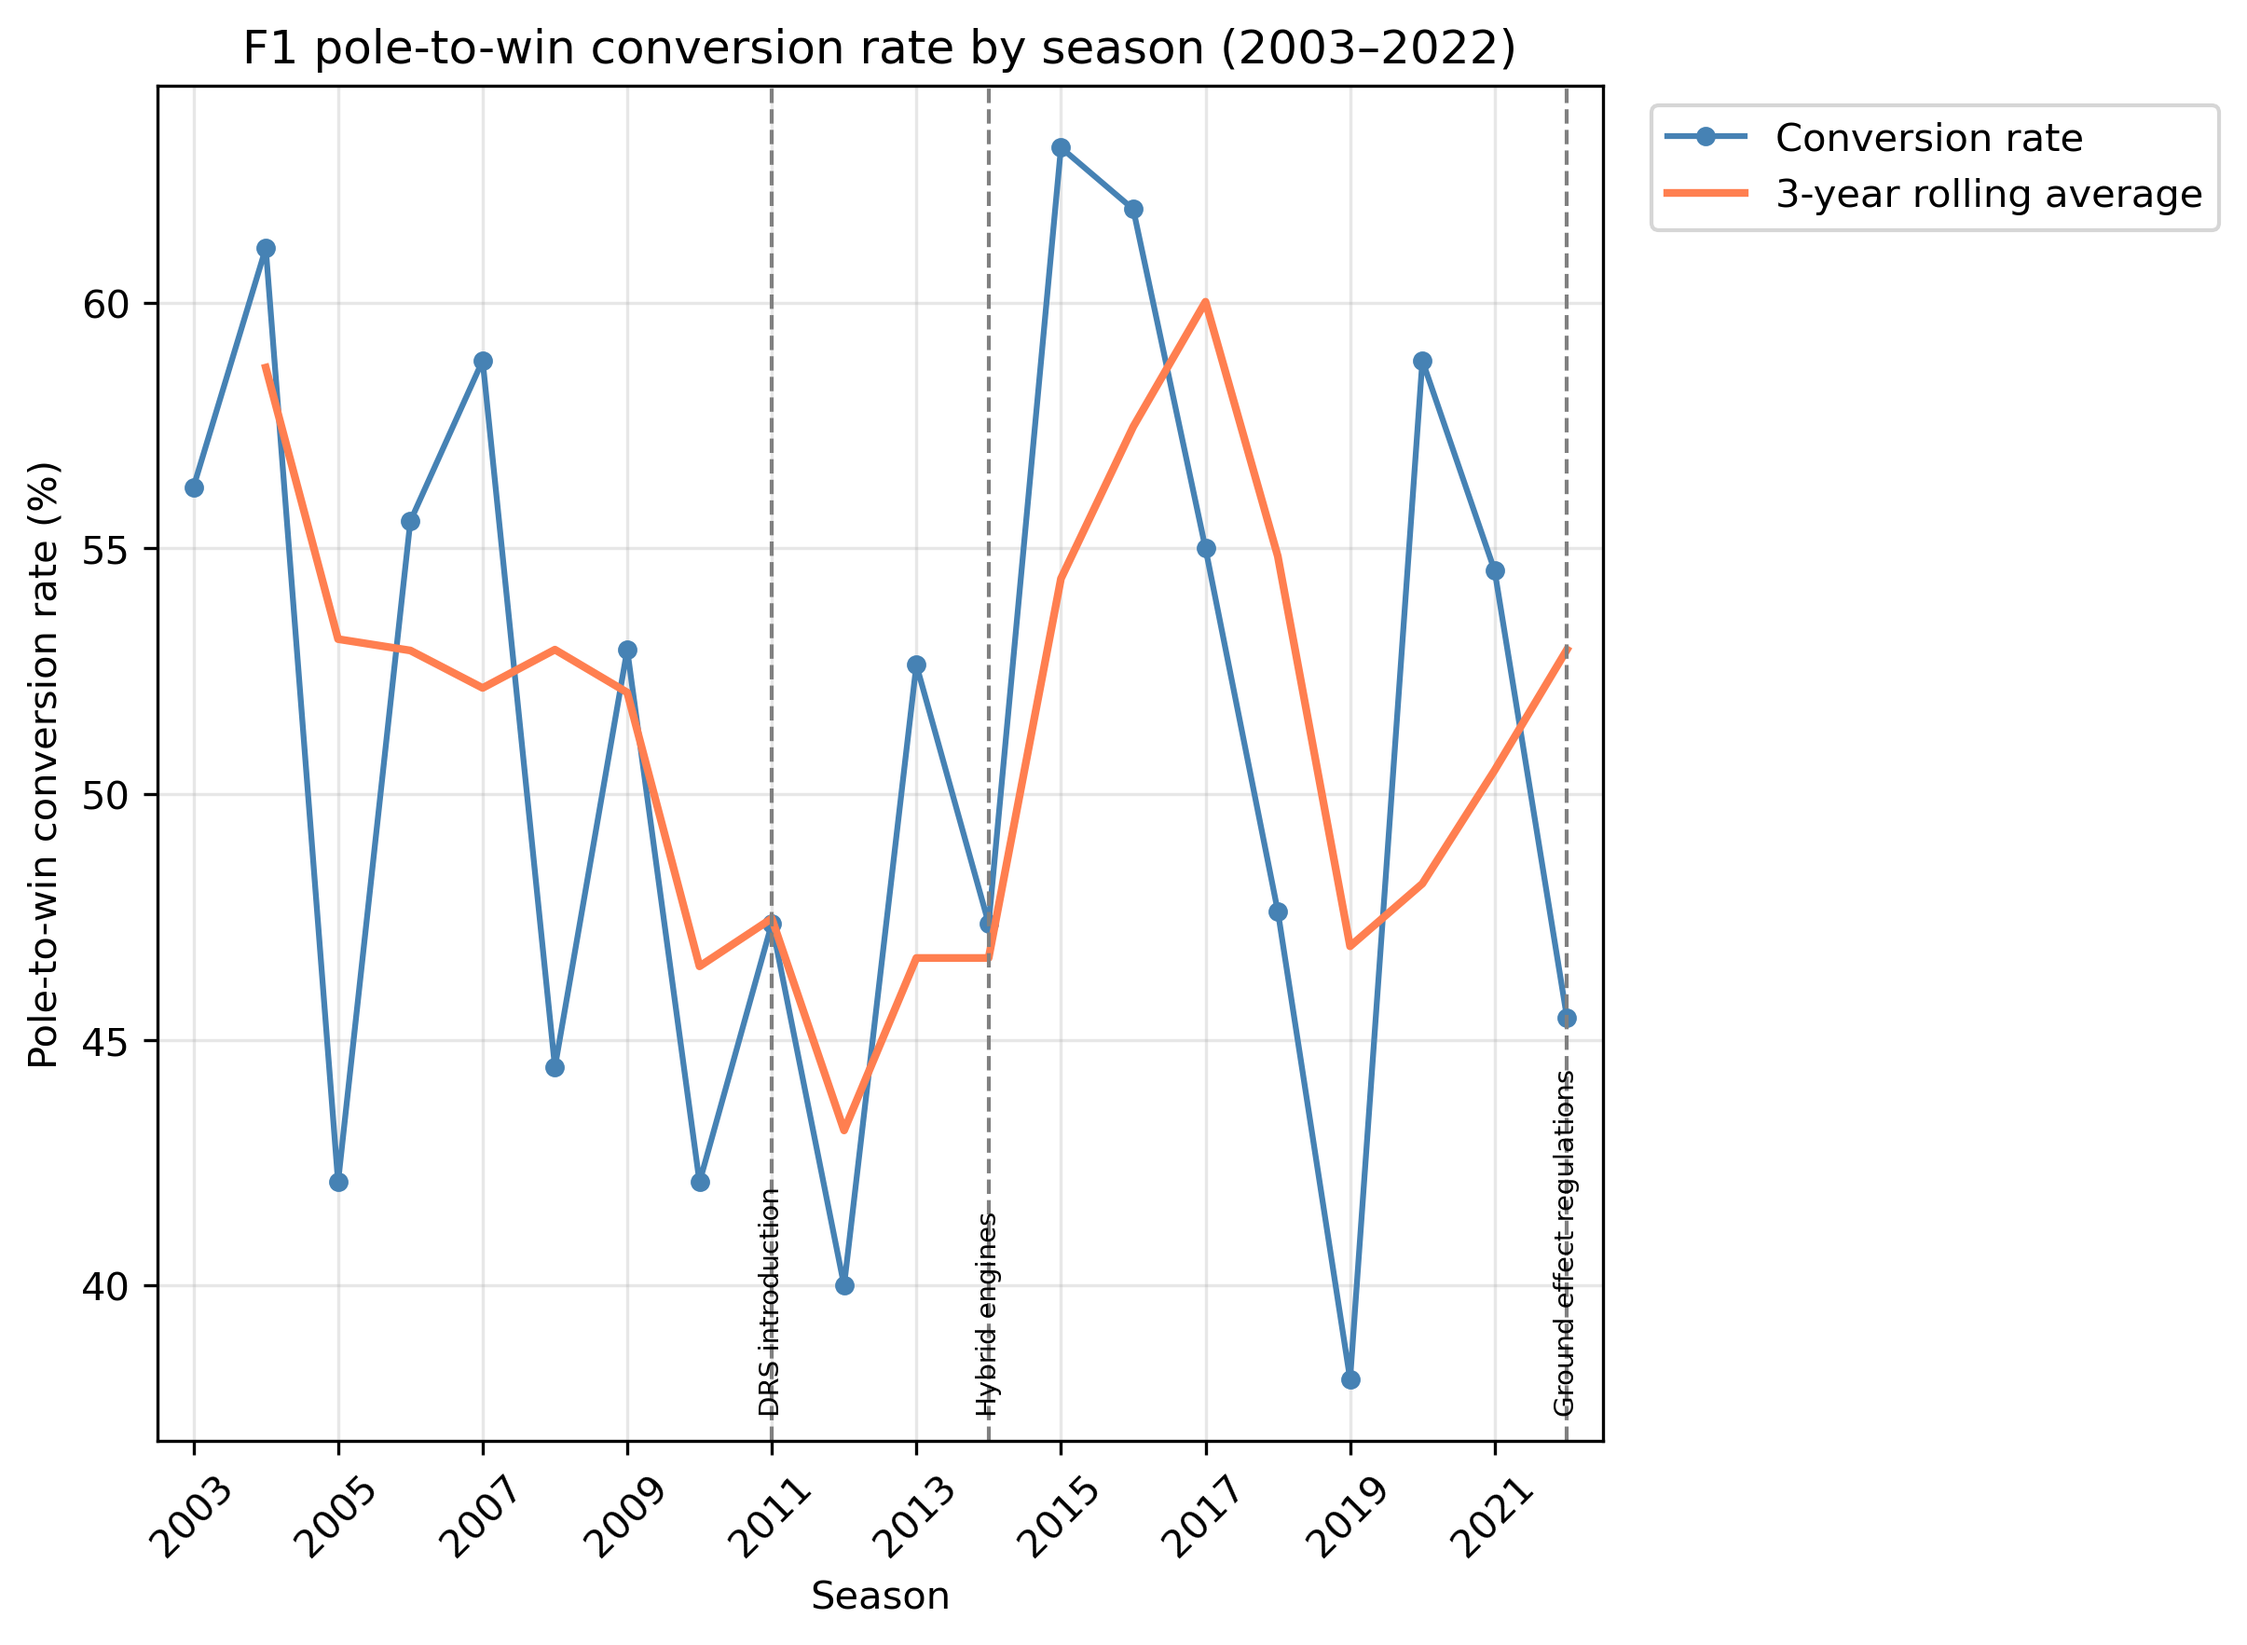
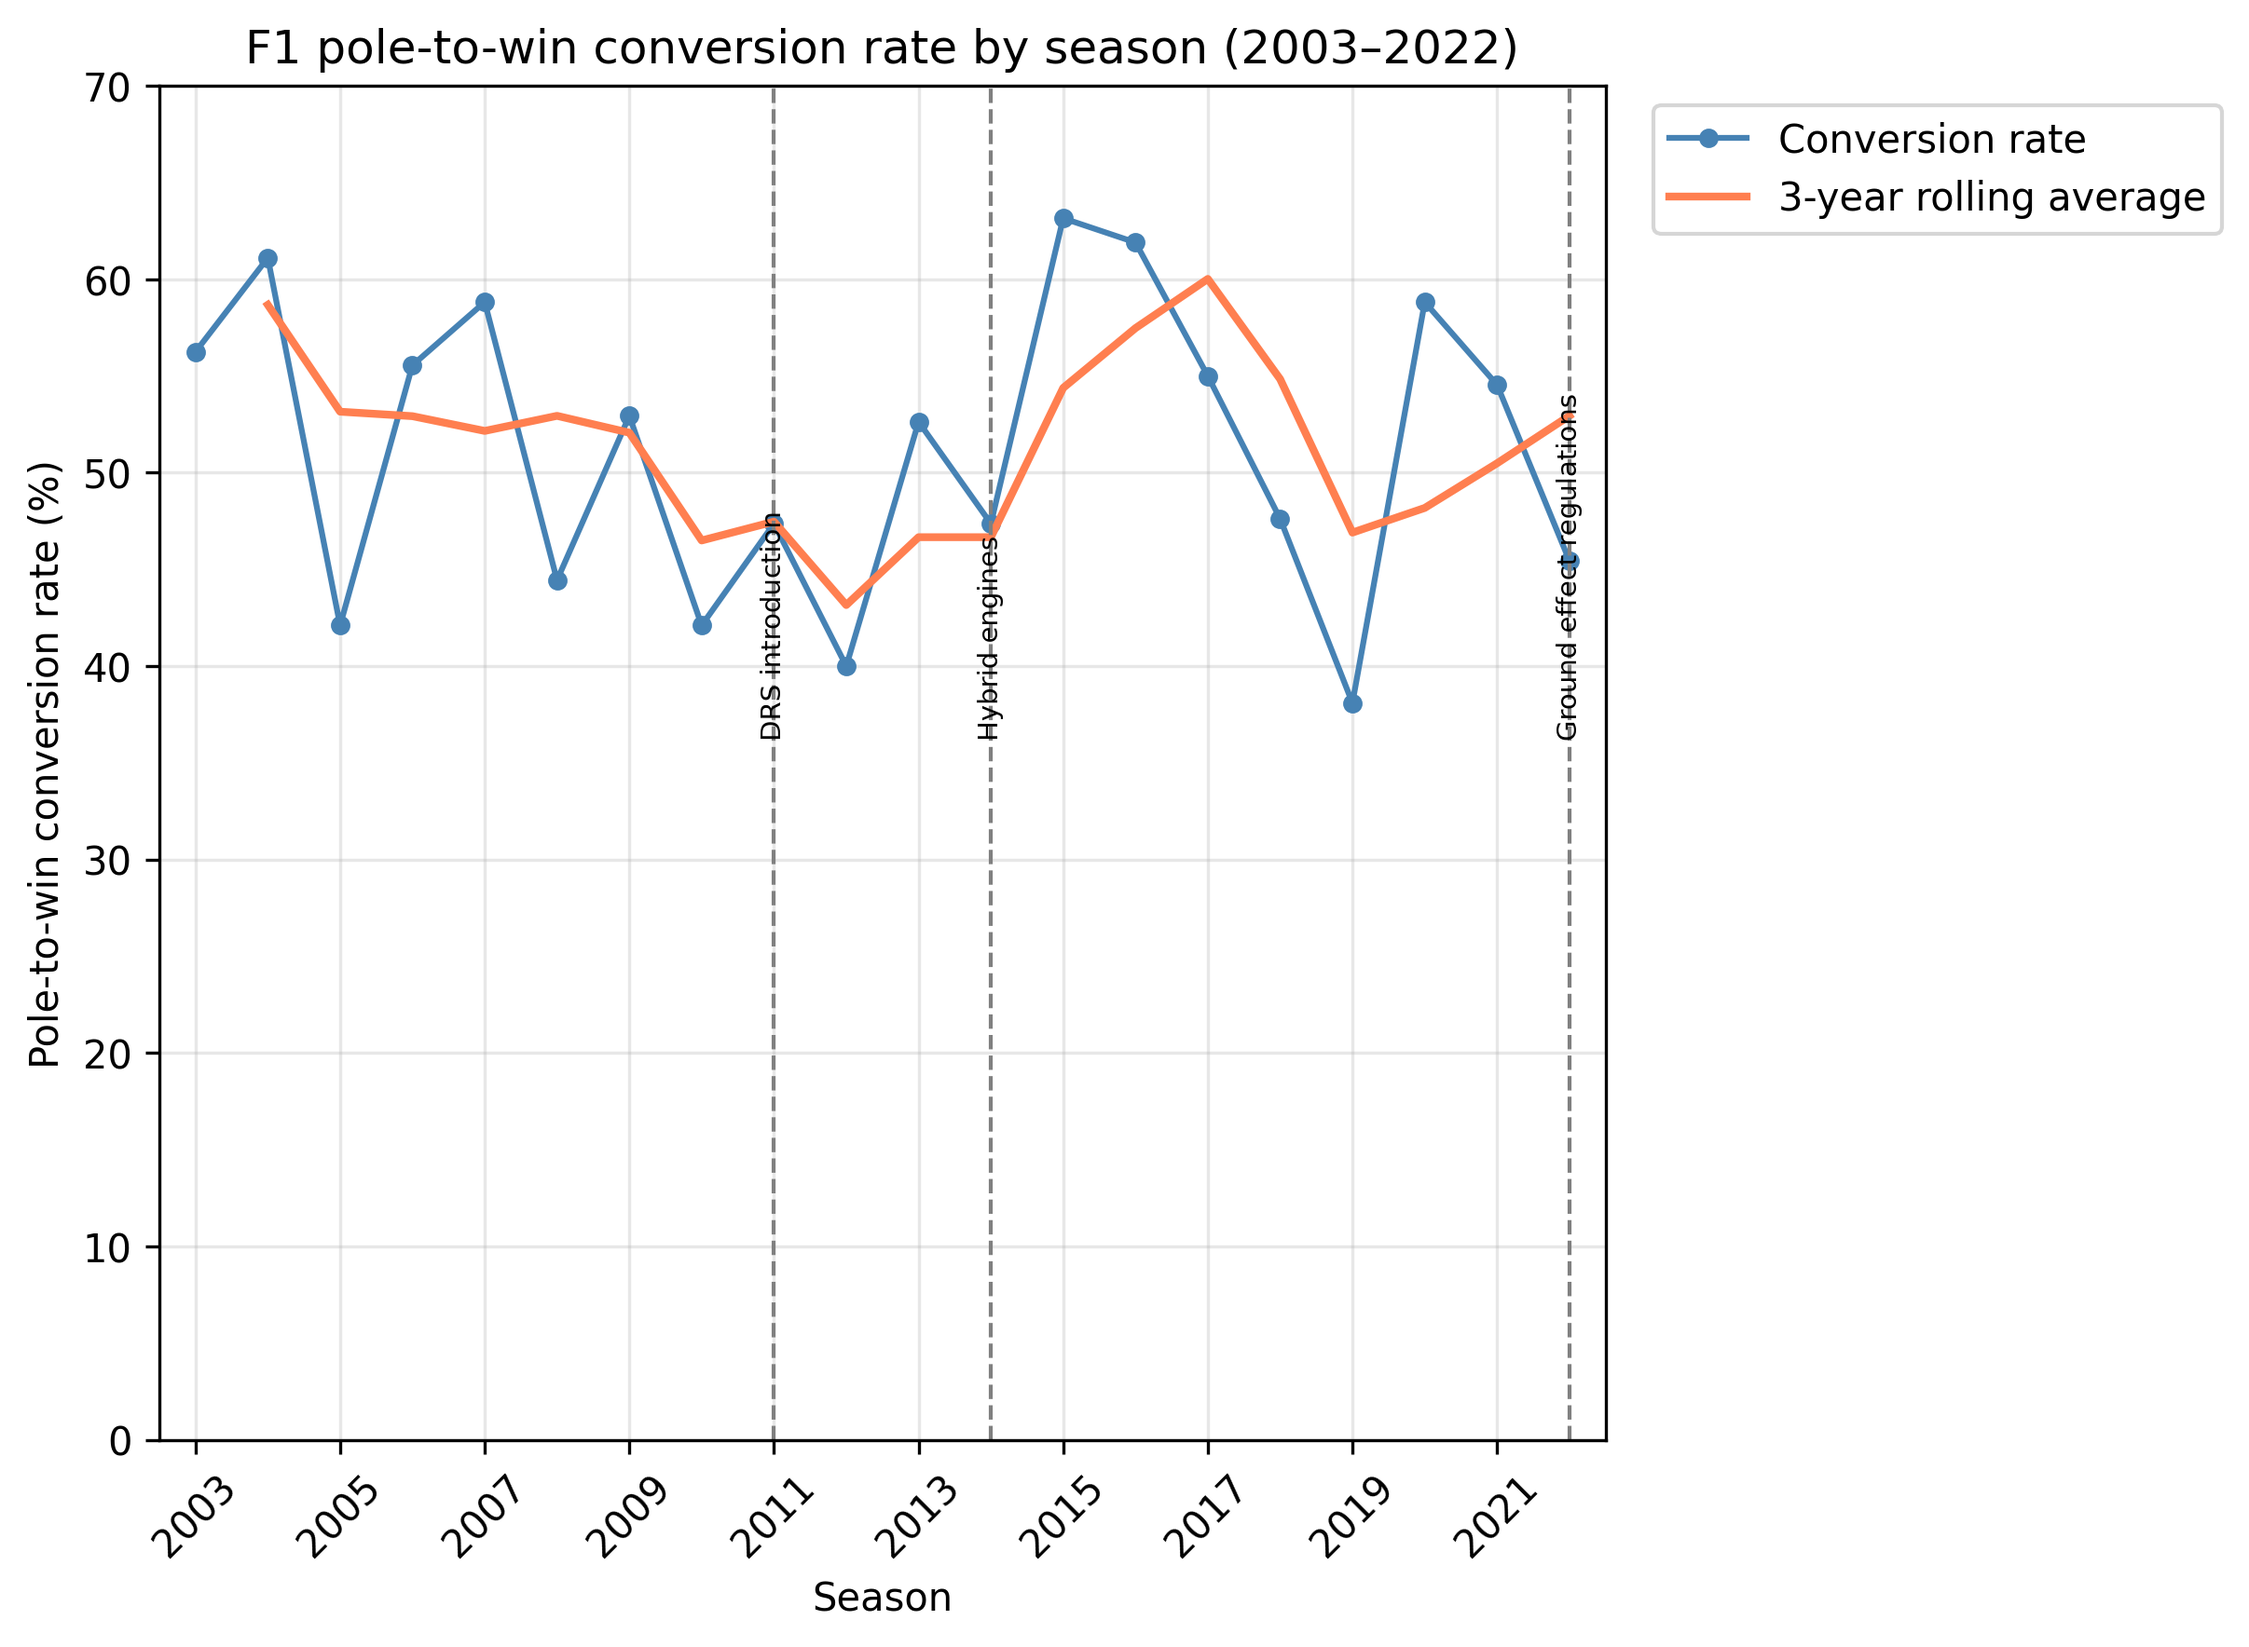
Implement Project Milestone 1 feedback: fix y-axes, add error bars, replace scatter with heatmaps

diff --git a/scripts/viz_grid_finish_era.py b/scripts/viz_grid_finish_era.py
@@ -23,6 +23,7 @@ def era_bucket(y):
         return "2010–2019"
     return "2020–2022"
 
+
 df["era"] = df["year"].apply(era_bucket)
 era_order = ["2003–2009", "2010–2019", "2020–2022"]
 
@@ -37,37 +38,80 @@ print(corr_df.to_string(index=False))
 print()
 
 era_colors = ["#3498db", "#e74c3c", "#9b59b6"]
-x_min = df["grid"].min()
-x_max = df["grid"].max()
-y_min = df["position"].min()
-y_max = df["position"].max()
+x_min = int(df["grid"].min())
+x_max = int(df["grid"].max())
+y_min = int(df["position"].min())
+y_max = int(df["position"].max())
 
-fig, axes = plt.subplots(1, 3, figsize=(15, 5))
+# Integer-spaced bins so each grid/finish slot gets its own cell
+grid_bins = np.arange(x_min - 0.5, x_max + 1.5, 1)
+pos_bins  = np.arange(y_min - 0.5, y_max + 1.5, 1)
+
+# Pre-compute regression lines so the combined panel reuses them
+reg = {}
+for era in era_order:
+    sub = df[df["era"] == era]
+    slope, intercept, r_val, p_val, _ = stats.linregress(sub["grid"], sub["position"])
+    reg[era] = dict(slope=slope, intercept=intercept, r=r_val, n=len(sub))
+
+fig, axes = plt.subplots(1, 4, figsize=(23, 5.5))
+
+# ── Panels 0-2: per-era heatmaps ────────────────────────────────────────────
 for i, era in enumerate(era_order):
     ax = axes[i]
     sub = df[df["era"] == era]
-    ax.scatter(sub["grid"], sub["position"], alpha=0.15, s=8, c=era_colors[i])
-    slope, intercept, r_val, p_val, se = stats.linregress(sub["grid"], sub["position"])
+    _, _, _, img = ax.hist2d(
+        sub["grid"], sub["position"],
+        bins=[grid_bins, pos_bins],
+        cmap="Blues",
+    )
+    plt.colorbar(img, ax=ax, label="Count", shrink=0.85)
+
+    r = reg[era]
     x_line = np.array([x_min, x_max])
-    ax.plot(x_line, slope * x_line + intercept, color=era_colors[i], linewidth=2)
+    ax.plot(x_line, r["slope"] * x_line + r["intercept"],
+            color=era_colors[i], linewidth=2, label="OLS fit")
+
     ax.text(
         0.05, 0.95,
-        f"r  = {r_val:.3f}\nr² = {r_val**2:.3f}",
+        f"r  = {r['r']:.3f}\nr² = {r['r']**2:.3f}",
         transform=ax.transAxes,
         fontsize=10,
         verticalalignment="top",
-        bbox=dict(boxstyle="round,pad=0.3", facecolor="white", alpha=0.7),
+        bbox=dict(boxstyle="round,pad=0.3", facecolor="white", alpha=0.8),
     )
     ax.set_xlim(x_min, x_max)
     ax.set_ylim(y_min, y_max)
     ax.set_xlabel("Grid position")
     ax.set_ylabel("Finishing position")
-    ax.set_title(f"{era}\n(n={len(sub):,} entries)")
+    ax.set_title(f"{era}\n(n={r['n']:,} entries)")
     ax.set_aspect("equal", adjustable="box")
+
+ax4 = axes[3]
+x_line = np.array([x_min, x_max])
+for i, era in enumerate(era_order):
+    r = reg[era]
+    ax4.plot(
+        x_line, r["slope"] * x_line + r["intercept"],
+        color=era_colors[i], linewidth=2.5,
+        label=f"{era}  (r = {r['r']:.3f})",
+    )
+
+ax4.set_xlim(x_min, x_max)
+ax4.set_ylim(y_min, y_max)
+ax4.set_xlabel("Grid position")
+ax4.set_ylabel("Finishing position")
+ax4.set_title("Regression comparison\n(all eras overlaid)")
+ax4.legend(fontsize=9, loc="upper left")
+ax4.set_aspect("equal", adjustable="box")
+ax4.grid(True, alpha=0.3)
+
 fig.suptitle(
-    "Grid position vs finishing position by era (2003–2022)\nPearson r increases over time — r² = proportion of finishing position variance explained by grid",
-    fontsize=14,
-    y=1.06,
+    "Grid position vs finishing position by era (2003–2022)\n"
+    "Heatmap density reveals point overlap; Pearson r increases over time — "
+    "r² = proportion of finishing-position variance explained by grid",
+    fontsize=13,
+    y=1.03,
 )
 fig.tight_layout()
 fig.savefig(out_path, dpi=300, bbox_inches="tight")

diff --git a/scripts/viz_circuit_type.py b/scripts/viz_circuit_type.py
@@ -2,6 +2,17 @@ import os
 import pandas as pd
 import matplotlib.pyplot as plt
 
+
+def wilson_ci(k, n, z=1.96):
+    """Return (lower_pct, upper_pct) Wilson score 95% CI for k successes in n trials."""
+    if n == 0:
+        return 0.0, 0.0
+    p = k / n
+    denom = 1 + z ** 2 / n
+    center = (p + z ** 2 / (2 * n)) / denom
+    margin = z * (p * (1 - p) / n + z ** 2 / (4 * n ** 2)) ** 0.5 / denom
+    return 100 * max(center - margin, 0.0), 100 * min(center + margin, 1.0)
+
 script_dir = os.path.dirname(os.path.abspath(__file__))
 PROJECT_ROOT = os.path.dirname(script_dir)
 merged_path = os.path.join(PROJECT_ROOT, "f1_merged.csv")
@@ -51,16 +62,38 @@ totals["conversion_pct"] = 100 * totals["pole_wins"] / totals["total_races"]
 street_df = totals[totals["circuit_type"] == "Street"].set_index("era").reindex(["pre-2010", "2010–present"])
 perm_df = totals[totals["circuit_type"] == "Permanent"].set_index("era").reindex(["pre-2010", "2010–present"])
 
+def _get(df, era, col):
+    val = df.loc[era, col] if era in df.index else None
+    return val if pd.notna(val) else 0
+
 x = [0, 1]
 width = 0.35
 fig, ax = plt.subplots(figsize=(7, 5))
-pre_2010 = [street_df.loc["pre-2010", "conversion_pct"] if pd.notna(street_df.loc["pre-2010", "conversion_pct"]) else 0,
-            perm_df.loc["pre-2010", "conversion_pct"] if pd.notna(perm_df.loc["pre-2010", "conversion_pct"]) else 0]
-post_2010 = [street_df.loc["2010–present", "conversion_pct"] if pd.notna(street_df.loc["2010–present", "conversion_pct"]) else 0,
-             perm_df.loc["2010–present", "conversion_pct"] if pd.notna(perm_df.loc["2010–present", "conversion_pct"]) else 0]
 
-bars1 = ax.bar([i - width/2 for i in x], pre_2010, width, label="pre-2010")
-bars2 = ax.bar([i + width/2 for i in x], post_2010, width, label="2010–present")
+pre_2010 = [_get(street_df, "pre-2010", "conversion_pct"),
+            _get(perm_df,   "pre-2010", "conversion_pct")]
+post_2010 = [_get(street_df, "2010–present", "conversion_pct"),
+             _get(perm_df,   "2010–present", "conversion_pct")]
+
+# Wilson 95% CIs
+def _ci_yerr(dfs, era):
+    errs_lo, errs_hi = [], []
+    for df in dfs:
+        k = _get(df, era, "pole_wins")
+        n = _get(df, era, "total_races")
+        pct = _get(df, era, "conversion_pct")
+        lo, hi = wilson_ci(k, n)
+        errs_lo.append(pct - lo)
+        errs_hi.append(hi - pct)
+    return [errs_lo, errs_hi]
+
+pre_yerr  = _ci_yerr([street_df, perm_df], "pre-2010")
+post_yerr = _ci_yerr([street_df, perm_df], "2010–present")
+
+bars1 = ax.bar([i - width/2 for i in x], pre_2010, width, label="pre-2010",
+               yerr=pre_yerr, capsize=5, error_kw=dict(elinewidth=1.2, ecolor="black"))
+bars2 = ax.bar([i + width/2 for i in x], post_2010, width, label="2010–present",
+               yerr=post_yerr, capsize=5, error_kw=dict(elinewidth=1.2, ecolor="black"))
 
 pre_2010_n = [int(street_df.loc["pre-2010", "total_races"]) if pd.notna(street_df.loc["pre-2010", "total_races"]) else 0,
              int(perm_df.loc["pre-2010", "total_races"]) if pd.notna(perm_df.loc["pre-2010", "total_races"]) else 0]
@@ -94,7 +127,7 @@ ax.set_title(
     fontsize=11,
 )
 ax.legend()
-ax.set_ylim(30, 75)
+ax.set_ylim(0, 85)
 fig.text(
     0.5,
     0.01,

diff --git a/scripts/viz_pole_win.py b/scripts/viz_pole_win.py
@@ -62,6 +62,7 @@ for yr, label in events:
         rotation=90,
     )
 
+ax.set_ylim(0, 70)
 ax.set_xlim(2002.5, 2022.5)
 ax.set_xticks(range(2003, 2023, 2))
 ax.set_xticklabels(range(2003, 2023, 2), rotation=45)
